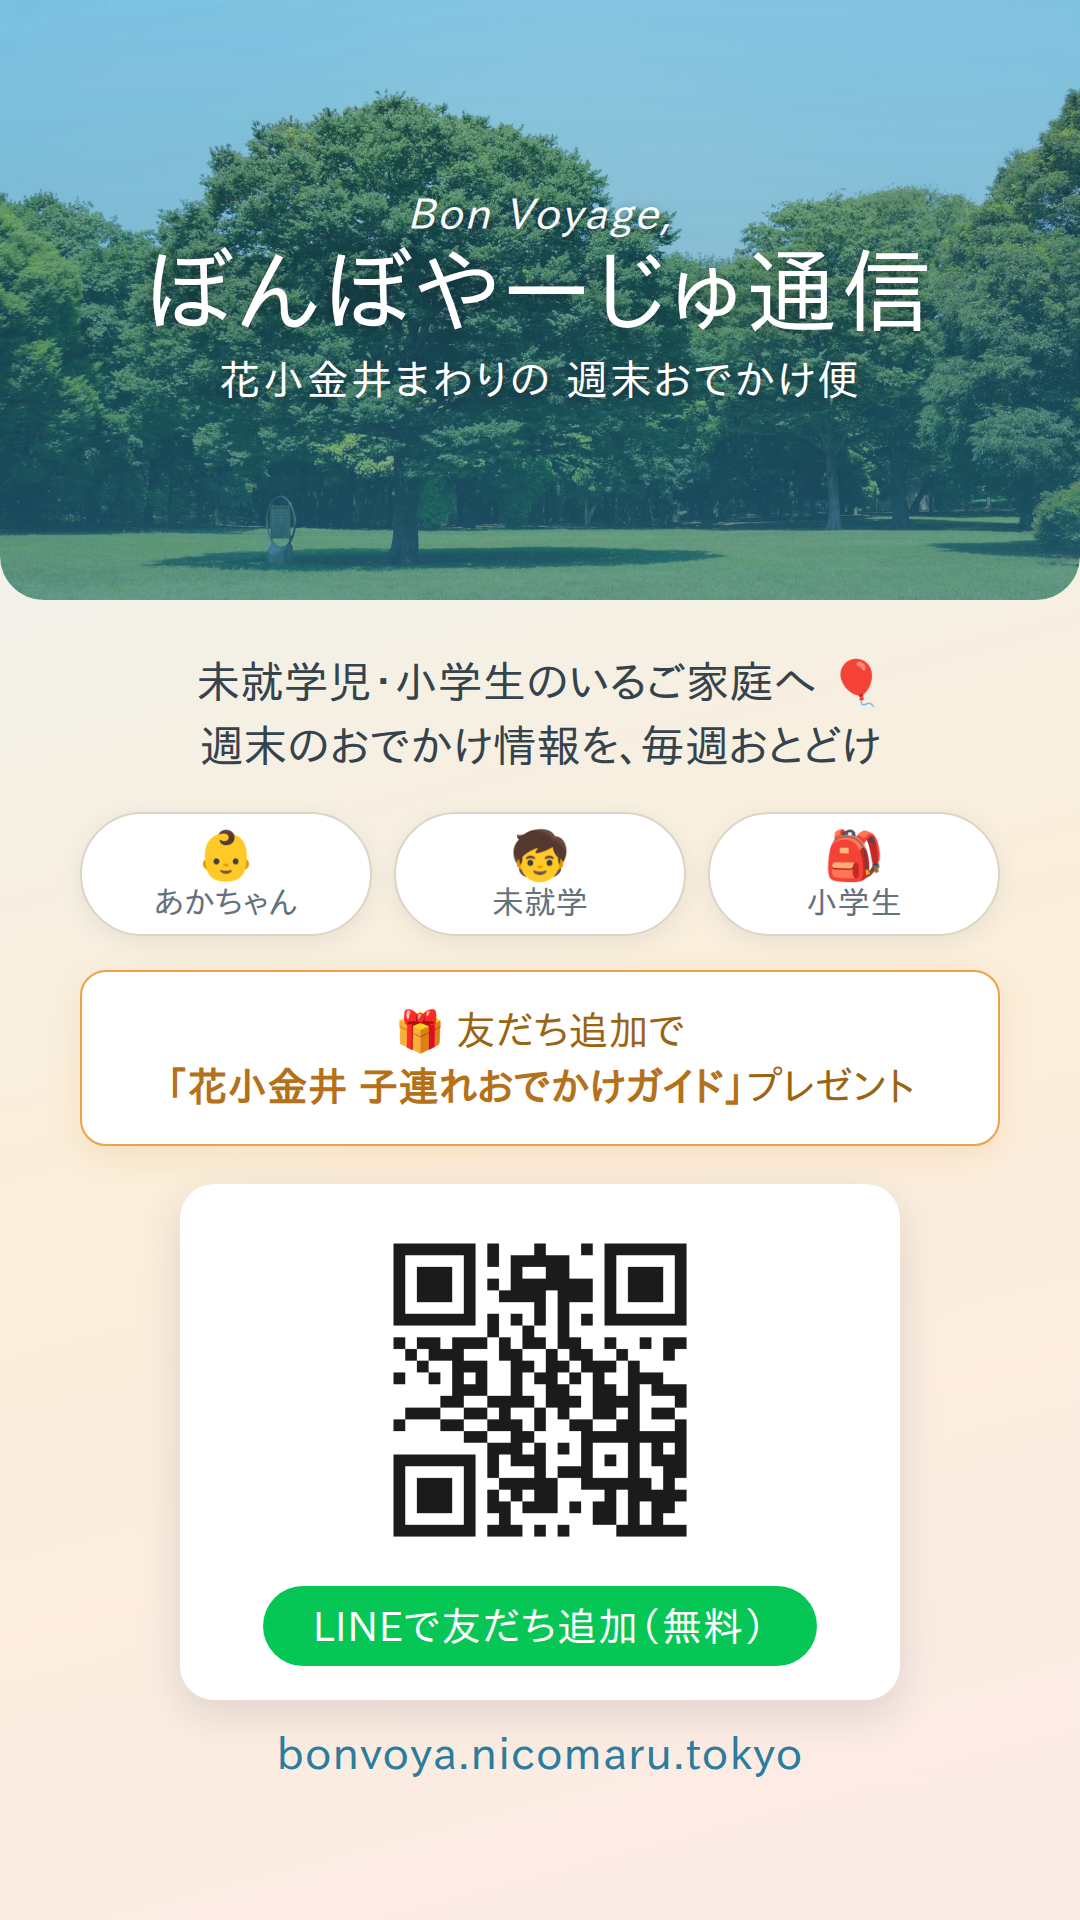
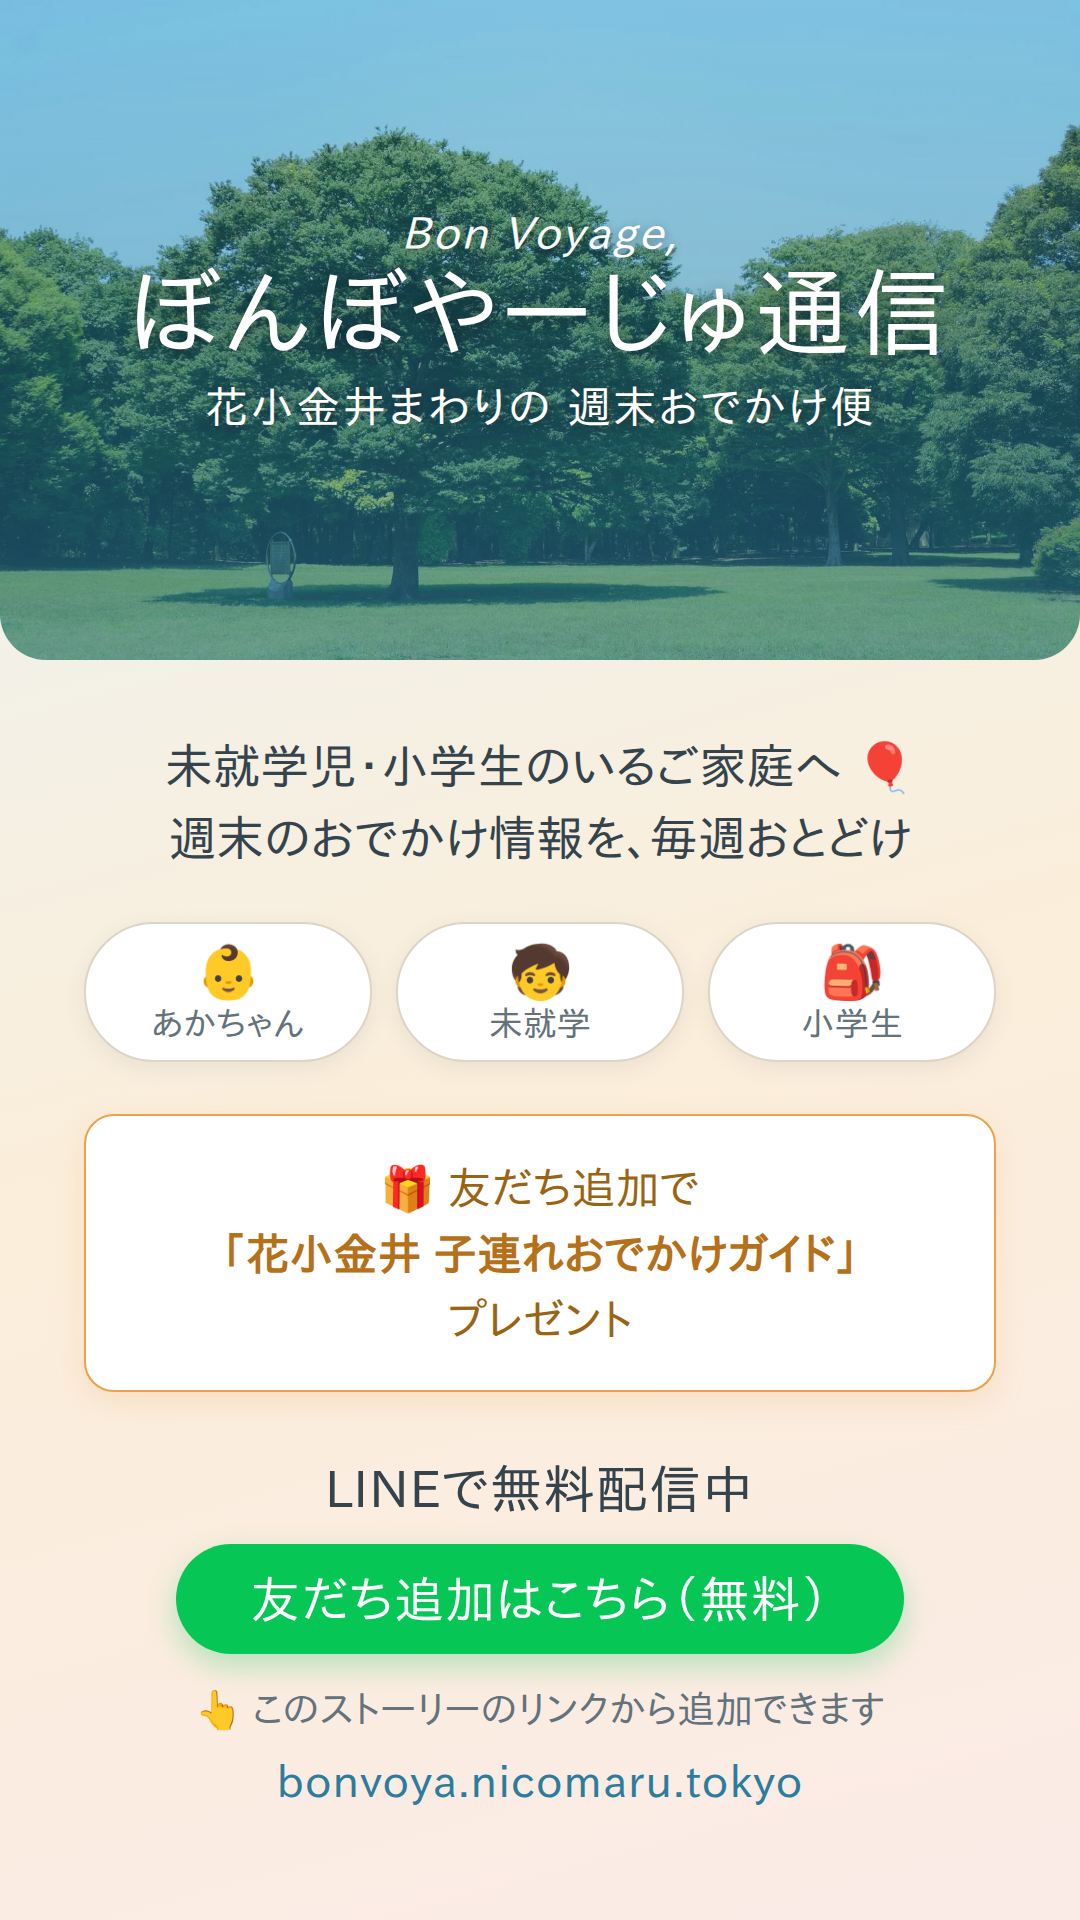
インスタ・ストーリーズ画像からQRを削除しリンク誘導型に(自分の画面のQRは読めないため)
- ig-story.png: QRを外し「友だち追加はこちら(リンク)」CTA型に。ギフト枠の折返しも整理
- share-kit.md: 画像説明をQRなし・リンク誘導に更新

Claude-Session: https://claude.ai/code/session_01KMfMQEFALQCm7vmScjBXHp

diff --git a/docs/share-kit.md b/docs/share-kit.md
@@ -74,7 +74,7 @@ https://bonvoya.nicomaru.tokyo/
 ## 3. Instagram(妻アカウント)
 
 ### 画像素材
-- ストーリーズ画像(縦1080×1920): `docs/homepage/assets/ig-story.png`(公園写真＋QR＋ガイドプレゼント)。フィード投稿にもそのまま使える。
+- ストーリーズ画像(縦1080×1920): `docs/homepage/assets/ig-story.png`(公園写真＋ガイドプレゼント告知／リンク誘導・QRなし)。フィード投稿にもそのまま使える。
 
 ### ストーリーズの貼り方
 1. `ig-story.png` をストーリーズにアップ。
